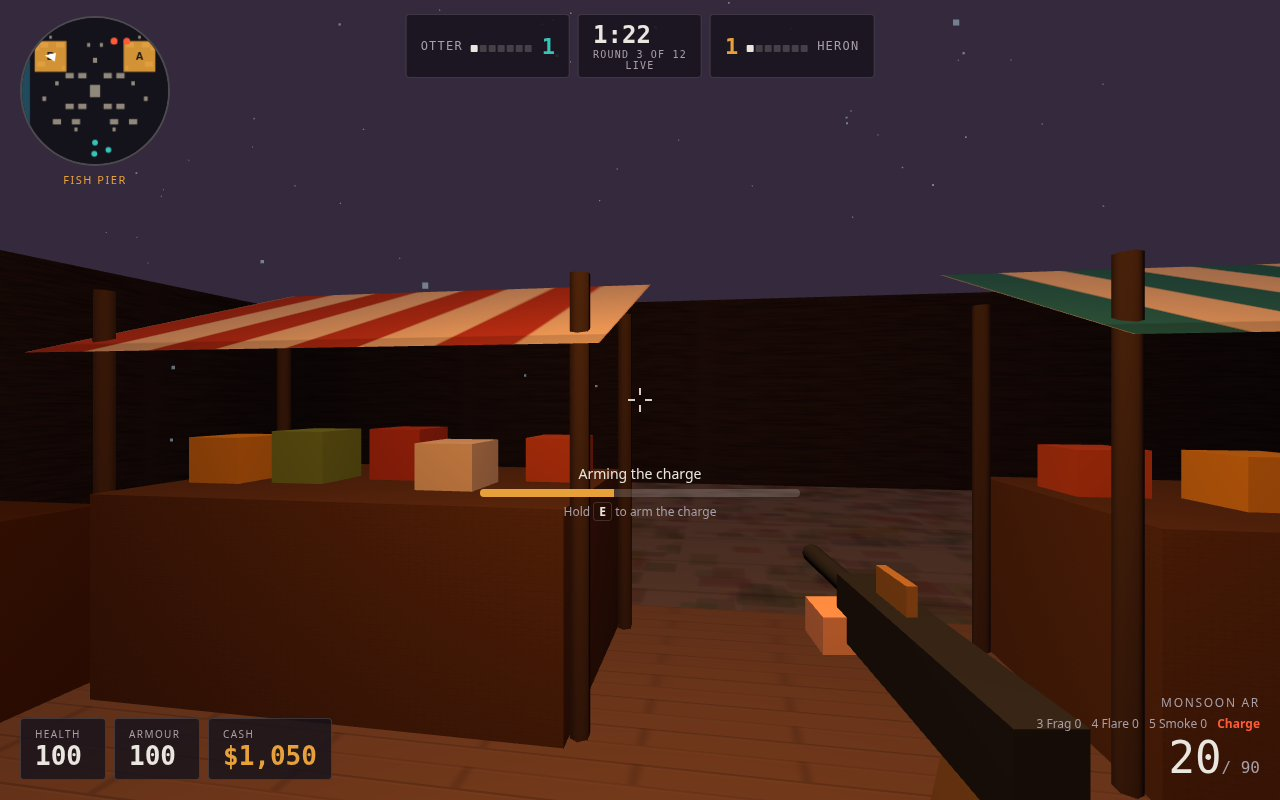
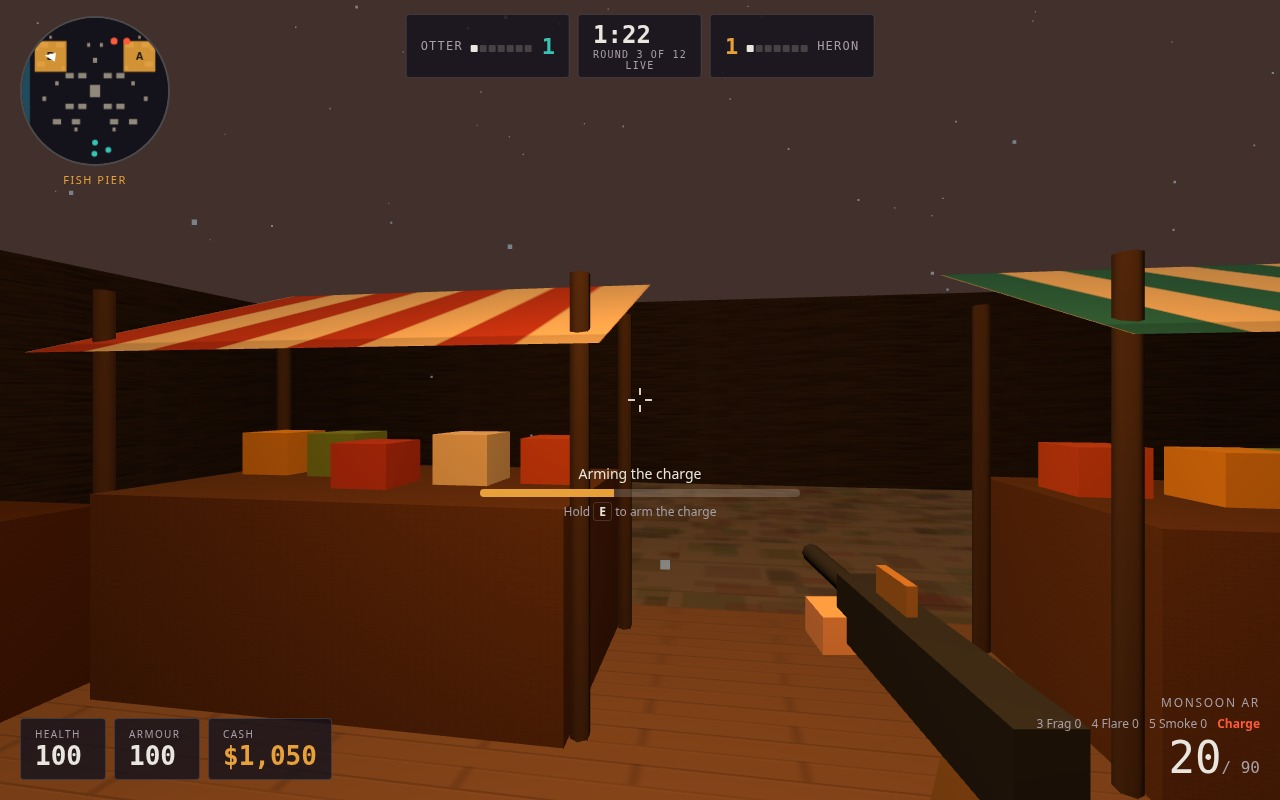
Monsoon v2 cover: close-combat action shot, warm palette, 3-line radio
- Freeze-restage the combat cover into an exact composition: three HERON
  enemies across the lane at 8-11 m (Lila 382 / Sena 568 / Oka 749 px),
  placed by projection + line-of-sight search so none hides behind a stall
- Player fires at Sena (viewmodel muzzle flash + tracer), Sena fires back
  (enemy muzzle flash sprite + tracer), Oka fires a second crossing tracer,
  smoke drifts between the two right-hand enemies
- Killfeed restaged at freeze: player's headshot on top; radio is now three
  lines with roles (Assault / Support / Sniper)
- Enemy muzzle flash is a real feature: bots.js sets state.enemyFlash on
  every bot shot, the renderer lights the gun-tip sprite for 60 ms
- Palette warmed (dusk sky, brighter sun, stronger lanterns) so the scene
  reads at thumbnail size; screenshots at JPEG quality 92

diff --git a/game/src/render.js b/game/src/render.js
@@ -87,20 +87,21 @@ export class Renderer {
     this.renderer.setSize(window.innerWidth, window.innerHeight);
     container.appendChild(this.renderer.domElement);
     this.scene = new THREE.Scene();
-    this.scene.background = new THREE.Color(0x352a3d);
-    this.scene.fog = new THREE.Fog(0x352a3d, 22, 68);
+    this.scene.background = new THREE.Color(0x41302c);
+    this.scene.fog = new THREE.Fog(0x41302c, 22, 68);
     this.camera = new THREE.PerspectiveCamera(75, window.innerWidth / window.innerHeight, 0.08, 120);
     this.camera.rotation.order = 'YXZ';
 
-    // Dusk light: a warm low sun and a cool sky fill.
-    this.scene.add(new THREE.HemisphereLight(0x8a7bb0, 0x3a2a22, 0.85));
-    const sun = new THREE.DirectionalLight(0xffb36b, 1.1);
+    // Dusk light: a warm low sun and a warm sky fill, brightened so the
+    // scene reads at thumbnail size.
+    this.scene.add(new THREE.HemisphereLight(0xb59a78, 0x4a3226, 1.05));
+    const sun = new THREE.DirectionalLight(0xffb36b, 1.6);
     sun.position.set(-18, 26, -14);
     this.scene.add(sun);
     // A few real lantern lights; the rest of the lanterns only glow.
     this.lanternLights = [];
     for (const p of [{ x: 0, z: 0 }, { x: 14, z: -9 }, { x: -14, z: -9 }, { x: 0, z: 14 }]) {
-      const l = new THREE.PointLight(0xffa64d, 18, 16, 1.6);
+      const l = new THREE.PointLight(0xffa64d, 22, 16, 1.6);
       l.position.set(p.x, 3.1, p.z);
       this.scene.add(l);
       this.lanternLights.push(l);
@@ -222,7 +223,7 @@ export class Renderer {
         new THREE.MeshBasicMaterial({ color: 0xffb347 }),
       );
       lamp.position.y = 3.1; g.add(lamp);
-      const halo = new THREE.Sprite(new THREE.SpriteMaterial({ map: glowTex, color: 0xffa64d, transparent: true, opacity: 0.55, depthWrite: false }));
+      const halo = new THREE.Sprite(new THREE.SpriteMaterial({ map: glowTex, color: 0xffa64d, transparent: true, opacity: 0.7, depthWrite: false }));
       halo.scale.set(2.2, 2.2, 1); halo.position.y = 3.1; g.add(halo);
       g.position.set(ln.x, 0, ln.z);
       s.add(g);
@@ -367,8 +368,15 @@ export class Renderer {
     }
     const gun = new THREE.Mesh(new THREE.BoxGeometry(0.07, 0.1, 0.7), dark);
     gun.position.set(0.1, 1.18, -0.35); g.add(gun);
+    // Muzzle flash: a glow at the gun tip, lit while the bot is firing
+    // (state.enemyFlash, set on every bot shot). The staged cover freezes
+    // it mid-burst; in live play it flickers for a frame per shot.
+    const flash = new THREE.Sprite(new THREE.SpriteMaterial({ map: glowTexture(), color: 0xffd27a, transparent: true, opacity: 0, depthWrite: false }));
+    flash.scale.set(0.7, 0.7, 1);
+    flash.position.set(0.1, 1.18, -0.75);
+    g.add(flash);
     this.scene.add(g);
-    m = { group: g, head };
+    m = { group: g, head, flash };
     this.botMeshes.set(f.id, m);
     return m;
   }
@@ -391,7 +399,7 @@ export class Renderer {
     this.flashLight.intensity = on ? 14 : 0;
     // Water scroll, lantern flicker, rain fall.
     if (this.waterTex) this.waterTex.offset.y = (time * 0.02) % 1;
-    this.lanternLights.forEach((l, i) => { l.intensity = 17 + Math.sin(time * 7 + i * 2.4) * 1.5; });
+    this.lanternLights.forEach((l, i) => { l.intensity = 21 + Math.sin(time * 7 + i * 2.4) * 1.5; });
     const rp = this.rain.geometry.attributes.position.array;
     for (let i = 0; i < rp.length; i += 3) {
       rp[i + 1] -= dt * 11;
@@ -447,6 +455,10 @@ export class Renderer {
       }
       m.group.position.set(f.x, 0, f.z);
       m.group.rotation.set(0, f.yaw, 0);
+      // Enemy muzzle flash: on while this bot fired within the last 60 ms.
+      // In the frozen staged frame the clock stops, so the flash stays lit.
+      const ef = state.enemyFlash;
+      if (m.flash) m.flash.material.opacity = (ef && ef.bot === f && time - ef.at < 0.06) ? 0.95 : 0;
       // Walk swing on the legs is skipped: the group bobs instead.
       m.group.position.y = f.moving ? Math.abs(Math.sin(time * 8 + f.x)) * 0.05 : 0;
     }
@@ -456,11 +468,6 @@ export class Renderer {
       const from = state.lastShot.from;
       const eye = from.crouched ? CROUCH_EYE : EYE;
       this.spawnTracer({ x: from.x, y: eye, z: from.z }, { x: state.lastShot.x, y: state.lastShot.y, z: state.lastShot.z });
-      if (from !== p) {
-        // Enemy muzzle flash: a brief glow at the bot's gun.
-        const m = this.botMeshes.get(from.id);
-        if (m) m.head.material = m.head.material; // no-op keep
-      }
     }
     // New smoke clouds.
     for (const sm of state.smokes) {

diff --git a/game/src/main.js b/game/src/main.js
@@ -235,13 +235,47 @@ function frame(now) {
 
   if (state.staged && !readySet && performance.now() - stageStartedAt > (state.readyDelay || 1) * 1000) {
     if (state.staged === 'combat') {
-      player(state).hp = 76; player(state).armour = 85;
-      // One live tracer in the frozen frame: the nearest HERON bot fires
-      // across the player's view as the capture is taken.
-      const sena = state.fighters.find((f) => f.name === 'Sena');
-      if (sena && sena.alive) {
-        state.lastShot = { from: sena, x: player(state).x, y: 1.2, z: player(state).z, at: state.time, hit: null, weapon: WEAPONS.monsoon, drawn: false };
+      // Restage the cover into an exact close-combat composition: whatever
+      // the bots did during the delay, snap them back into frame — three
+      // HERON enemies across the lane at 8-12 m, facing the player — and
+      // freeze the fight mid-burst. The sim is frozen from here, so the
+      // capture shows exactly this frame.
+      const p = player(state);
+      p.hp = 76; p.armour = 85;
+      const place = (name, x, z) => {
+        const f = state.fighters.find((f2) => f2.name === name);
+        if (!f) return null;
+        f.x = x; f.z = z; f.alive = true; f.hp = 250; f.vx = 0; f.vz = 0; f.moving = false;
+        f.yaw = Math.atan2(-(p.x - x), -(p.z - z));
+        if (f.bot) { f.bot.state = 'hold'; f.bot.target = null; }
+        return f;
+      };
+      const sena = place('Sena', 3.5, -0.5);
+      const oka = place('Oka', 7.5, 0.5);
+      place('Lila', 2, -4);
+      // Teammates and the fourth HERON sit behind the player, out of frame.
+      place('Taro', -5, 2); place('Nia', -8, 12); place('Bram', 8, 12); place('Dewi', 14, 14);
+      if (sena) {
+        // The player fires at Sena: viewmodel muzzle flash + tracer downrange.
+        state.lastShot = { from: p, x: sena.x, y: 1.3, z: sena.z, at: state.time, hit: null, weapon: WEAPONS.monsoon, drawn: false };
+        // Sena fires back across the player's view: enemy muzzle flash + tracer.
+        state.enemyFlash = { bot: sena, at: state.time };
+        renderer.spawnTracer({ x: sena.x, y: 1.5, z: sena.z }, { x: p.x, y: 1.2, z: p.z });
+        // Oka fires too: a second tracer crossing the frame.
+        if (oka) renderer.spawnTracer({ x: oka.x, y: 1.5, z: oka.z }, { x: p.x, y: 1.2, z: p.z });
       }
+      // Smoke drifting in the gap between the two right-hand enemies.
+      state.smokes.push({ x: 6, z: -1, until: state.time + 8 });
+      // Headline feeds: the player's headshot on top, three radio lines
+      // with roles. Pushed newest-last so they read top-first.
+      state.killfeed.length = 0;
+      pushKillfeed(state, 'Oka', 'HERON', 'Cicada SMG', 'Nia', false);
+      pushKillfeed(state, 'Sena', 'HERON', 'Monsoon AR', 'Taro', true);
+      pushKillfeed(state, 'You', 'OTTER', 'Monsoon AR', 'Lila', true);
+      state.radio.length = 0;
+      pushRadio(state, 'Bram', 'Sniper: eyes on the square — two crossing mid');
+      pushRadio(state, 'Nia', 'Support: holding Fish Pier — charge is ours');
+      pushRadio(state, 'Taro', 'Assault: contact at Spice Row, rotating');
     }
     readySet = true;
     window.__shotReady = true;

diff --git a/game/src/bots.js b/game/src/bots.js
@@ -131,6 +131,8 @@ function botShoot(s, bot, target, dt) {
   const res = fireWeapon(s, bot, bot.yaw, 0, err);
   bot.weaponName = w.name;
   s.lastShot = { from: bot, x: res.x, y: res.y, z: res.z, at: s.time, hit: res.hit, weapon: w };
+  // Muzzle flash at the bot's gun (the renderer lights it for 60 ms).
+  s.enemyFlash = { bot, at: s.time };
   s.noise.push({ x: bot.x, z: bot.z, at: s.time });
   b.burstLeft -= 1;
   if (b.burstLeft <= 0) {
